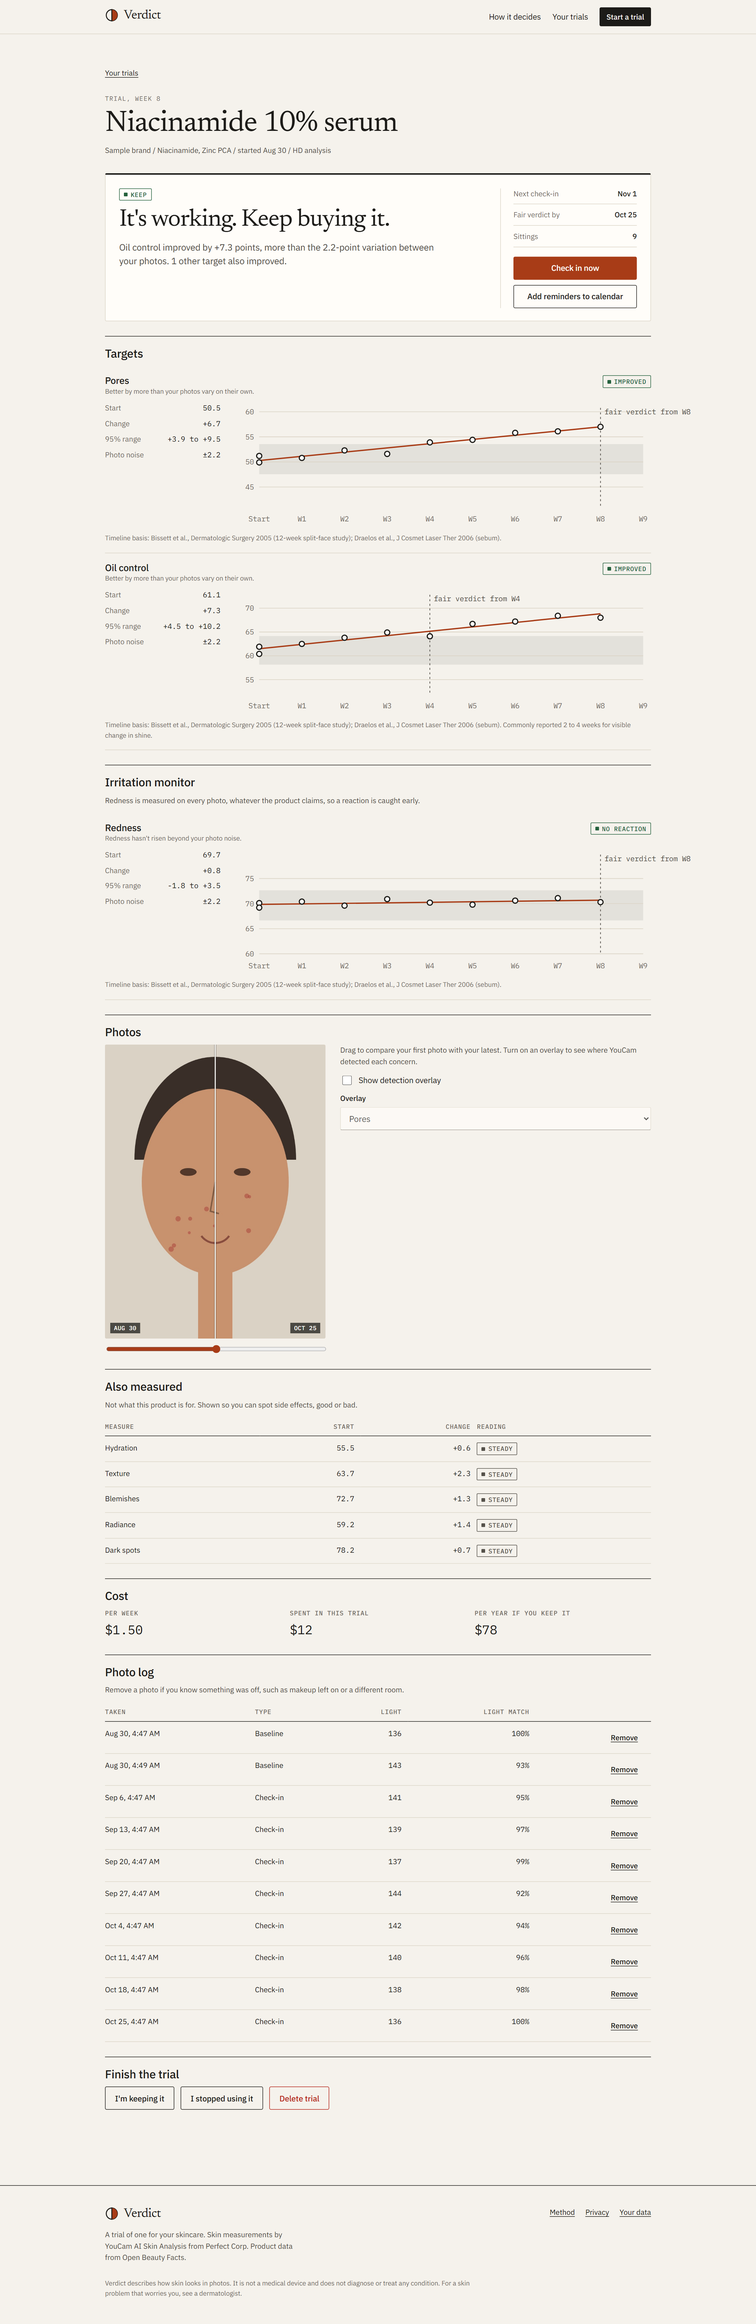
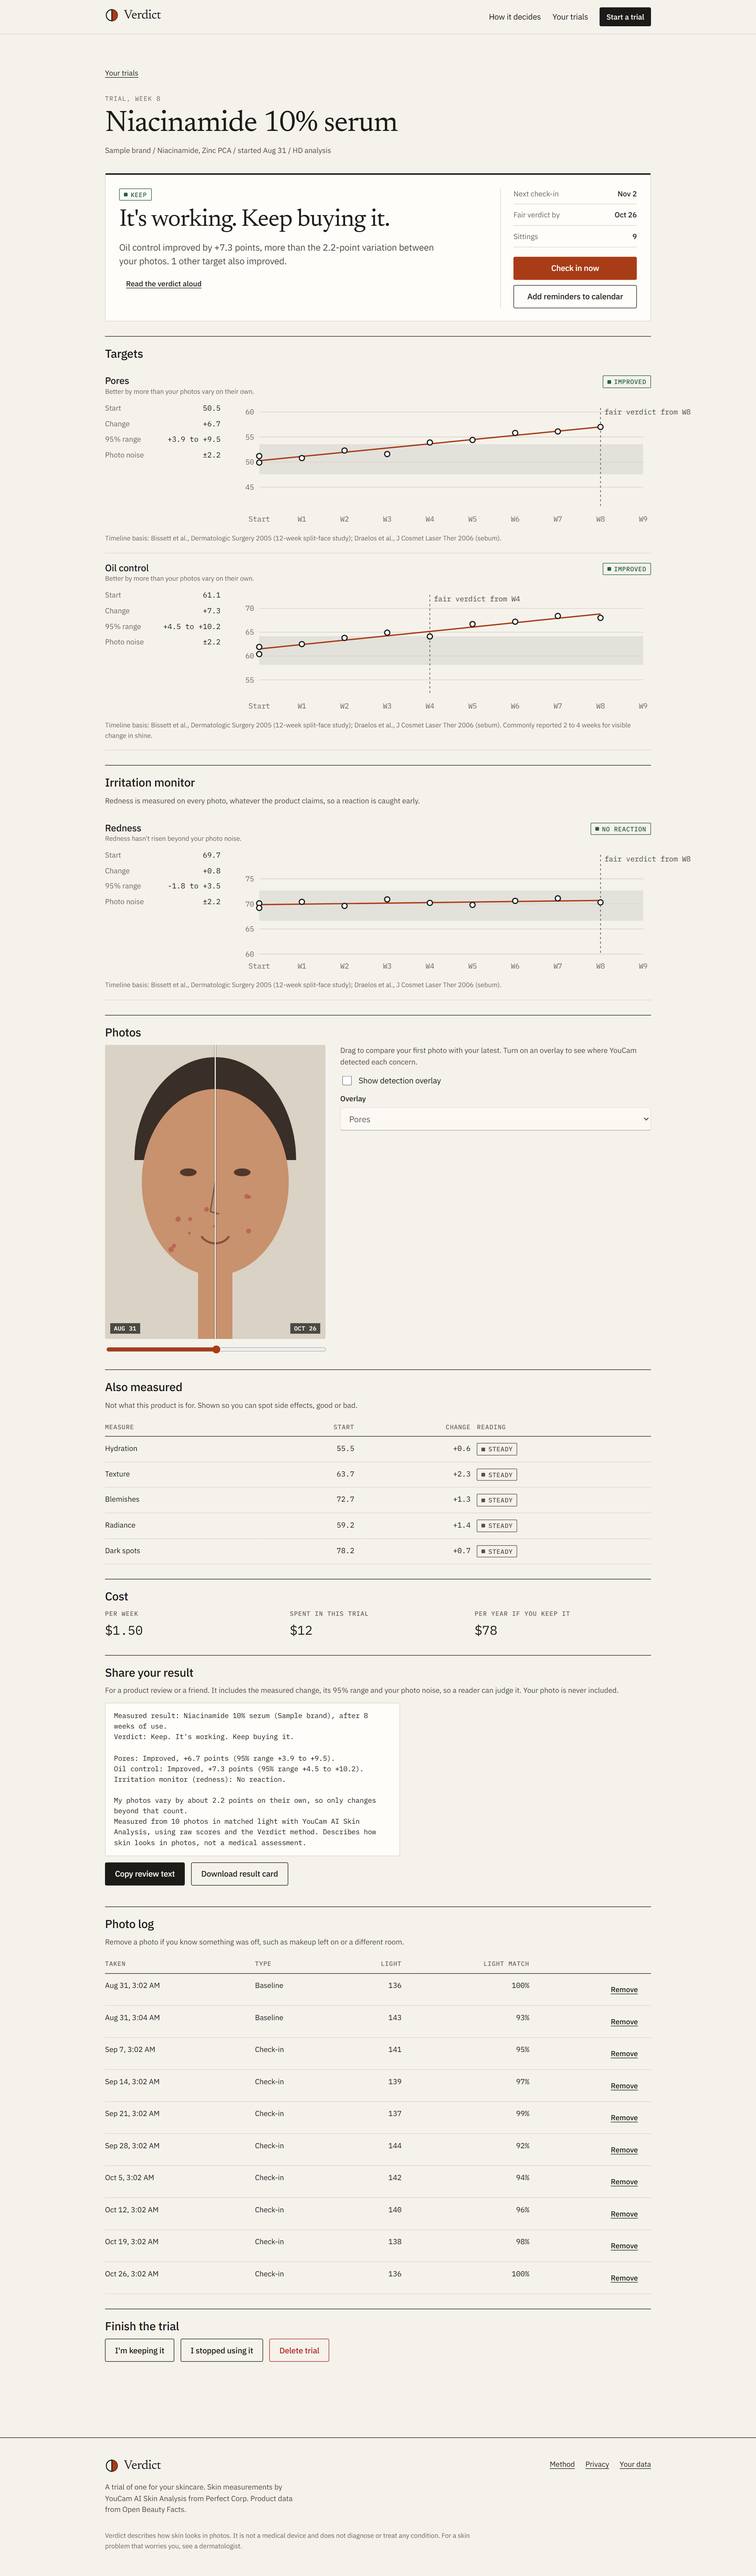
Update README, testing guide and screenshots for the new features

diff --git a/README.md b/README.md
@@ -11,8 +11,8 @@ It ends with a decision you can act on at the till: keep buying it, stop, or wai
 
 [![CI](https://github.com/opeblow/verdict/actions/workflows/ci.yml/badge.svg)](https://github.com/opeblow/verdict/actions/workflows/ci.yml)
 [![CodeQL](https://github.com/opeblow/verdict/actions/workflows/codeql.yml/badge.svg)](https://github.com/opeblow/verdict/actions/workflows/codeql.yml)
-[![Unit tests](https://img.shields.io/badge/unit%20tests-108-24613d.svg)](docs/TESTING.md#unit-tests-vitest)
-[![Browser tests](https://img.shields.io/badge/browser%20tests-25-24613d.svg)](docs/TESTING.md#browser-tests-playwright)
+[![Unit tests](https://img.shields.io/badge/unit%20tests-175-24613d.svg)](docs/TESTING.md#unit-tests-vitest)
+[![Browser tests](https://img.shields.io/badge/browser%20tests-42-24613d.svg)](docs/TESTING.md#browser-tests-playwright)
 [![WCAG 2.2 AA](https://img.shields.io/badge/axe-WCAG%202.2%20AA-24613d.svg)](tests/e2e/a11y.spec.ts)
 [![TypeScript strict](https://img.shields.io/badge/TypeScript-strict-1c1b18.svg?logo=typescript&logoColor=white)](tsconfig.json)
 [![License: MIT](https://img.shields.io/badge/license-MIT-1c1b18.svg)](LICENSE)
@@ -54,7 +54,7 @@ It ends with a decision you can act on at the till: keep buying it, stop, or wai
 | **How YouCam is used** | As a measuring instrument across weeks: the full upload, analyse, poll, mask and delete cycle, HD and SD, up to 8 concerns per call |
 | **What makes it trustworthy** | `raw_score` only, a measured personal noise floor, 95% ranges, matched light, and "too early" as a real answer |
 | **Privacy** | No accounts and no server database. Photos and scores live on your device. Photos are deleted from YouCam once results are saved. |
-| **Engineering** | Next.js 16, React 19, strict TypeScript, 108 unit tests, 25 browser tests, axe accessibility checks, eight decision records, CI, CodeQL, strict CSP |
+| **Engineering** | Next.js 16, React 19, strict TypeScript, 175 unit tests, 42 browser tests, axe accessibility checks, eleven decision records, CI, CodeQL, strict CSP |
 | **Track** | Skin AI |
 
 ## For judges
@@ -71,8 +71,9 @@ The four criteria are weighted equally. Every claim below links to the code, tes
 | `raw_score` for every calculation, because YouCam documents `ui_score` as adjusted upwards | [ADR 0002](docs/adr/0002-raw-score-not-ui-score.md) |
 | The live engine error format, `"('message', 'error_code')"`, parsed into plain instructions such as "Move closer" | [`errors.ts`](src/lib/youcam/errors.ts) |
 | Photos deleted from YouCam only after results are safely on the device, with a free retry if saving fails | [ADR 0006](docs/adr/0006-delete-from-youcam-after-local-save.md) |
+| An MCP endpoint lets AI assistants plan and judge trials with the same engine, without spending units or seeing photos | [MCP.md](docs/MCP.md), [ADR 0011](docs/adr/0011-mcp-tools-for-assistants.md) |
 | A dependency-free statistics engine: noise with a cautious prior, least-squares trend, pooled 95% interval | [`stats.ts`](src/lib/domain/stats.ts), [ADR 0004](docs/adr/0004-change-must-clear-measured-noise.md) |
-| 108 unit tests and 25 browser tests in CI, with YouCam mocked so no units are spent | [TESTING.md](docs/TESTING.md), [`ci.yml`](.github/workflows/ci.yml) |
+| 175 unit tests and 42 browser tests in CI, with YouCam mocked so no units are spent | [TESTING.md](docs/TESTING.md), [`ci.yml`](.github/workflows/ci.yml) |
 
 ### 2. Design
 
@@ -82,6 +83,7 @@ The four criteria are weighted equally. Every claim below links to the code, tes
 | Guided capture: your first photo is overlaid on the camera, with a live readout of brightness, side light, colour temperature, glare and blur | [`CaptureFlow.tsx`](src/components/capture/CaptureFlow.tsx), [`quality.ts`](src/lib/capture/quality.ts) |
 | Product search, barcode scanning and manual entry, with ingredients read automatically | [`ProductPicker.tsx`](src/components/product/ProductPicker.tsx) |
 | Cost per week and per year next to the verdict, so the answer is about money as well as skin | [`TrialDashboard.tsx`](src/app/trials/[id]/TrialDashboard.tsx) |
+| Spoken guidance reads the light checks, countdown and results aloud, and the verdict can be read aloud, using on-device speech only | [ADR 0010](docs/adr/0010-spoken-guidance-on-device.md), [`spoken-guidance.spec.ts`](tests/e2e/spoken-guidance.spec.ts) |
 | A distinctive editorial design system with light and dark themes, phone first, checked against WCAG 2.2 AA in both themes | [`globals.css`](src/app/globals.css), [`a11y.spec.ts`](tests/e2e/a11y.spec.ts) |
 
 ### 3. Potential impact
@@ -91,6 +93,7 @@ The four criteria are weighted equally. Every claim below links to the code, tes
 | Meets a decision every skincare buyer makes, repeatedly: buy it again or not | [The problem](#the-problem) |
 | Stops people abandoning good products too early, by giving each active a fair-verdict week (niacinamide on pores: about eight weeks) | [`ingredients.ts`](src/lib/domain/ingredients.ts), 18 actives |
 | Catches irritation early: redness is measured on every photo, whatever the product claims, and a rise stops the trial | [`concerns.ts`](src/lib/domain/concerns.ts), [`verdict.test.ts`](tests/unit/verdict.test.ts) |
+| A shareable measured result: review text and a card with the change, its 95% range and photo noise, never the photo, for store reviews | [`share.ts`](src/components/verdict/share.ts), [`share.spec.ts`](tests/e2e/share.spec.ts) |
 | Value for shoppers (money not wasted) and for retailers (fewer returns, confident repeat purchases of products that work) | [Roadmap](#roadmap) |
 | Ready to run: one-click deploy, guarded API units, no database to operate | [SETUP.md](docs/SETUP.md#6-deploy) |
 
@@ -101,6 +104,7 @@ The four criteria are weighted equally. Every claim below links to the code, tes
 | Uses YouCam as a measuring instrument across time. One score is a curiosity; a series with known noise is evidence. | [METHOD.md](docs/METHOD.md) |
 | Two baseline photos a minute apart measure each person's own noise floor, and every claim of change must clear it | [ADR 0004](docs/adr/0004-change-must-clear-measured-noise.md) |
 | Tells a purge from a reaction: blemishes rising early on a retinoid or acid are likely purging; rising redness means stop | [`verdict.ts`](src/lib/domain/verdict.ts) |
+| Fair to every skin tone: the light checks judge the room, not the skin. The first version blocked the two darkest Monk Skin Tones in perfect light; now all ten get the same answer, tested in unit and browser tests | [ADR 0009](docs/adr/0009-light-checks-judge-the-room-not-the-skin.md), [`fairness.test.ts`](tests/unit/fairness.test.ts) |
 | Compares each person only with themselves, in their own light, instead of with population norms that may fit some skin tones poorly | [Limits](#limits) |
 
 ### Test it in five minutes
@@ -120,9 +124,9 @@ A real trial takes weeks, so the landing page shows the real engine's output on 
 ```bash
 git clone https://github.com/opeblow/verdict.git && cd verdict
 npm install
-npm test                                    # 108 unit tests, including every verdict rule
+npm test                                    # 175 unit tests, including every verdict rule
 npm run build && npx playwright install chromium
-npm run test:e2e                            # 25 browser tests, YouCam mocked
+npm run test:e2e                            # 42 browser tests, YouCam mocked
 ```
 
 ## The problem
@@ -222,9 +226,11 @@ Full write-up: [docs/METHOD.md](docs/METHOD.md).
 | Area | What is in place |
 |---|---|
 | **Architecture** | One Next.js app. Personal data in the browser's IndexedDB; a stateless server holds the key. Pure domain layer with no I/O. [ARCHITECTURE.md](docs/ARCHITECTURE.md) |
-| **Decisions** | Eight architecture decision records, each naming the code and tests that enforce it. [docs/adr](docs/adr/README.md) |
-| **Tests** | 108 unit tests (Vitest) and 25 browser tests (Playwright) on desktop and phone, including a full trial, a failed-save retry and API guards. [TESTING.md](docs/TESTING.md) |
-| **Accessibility** | axe finds no WCAG 2.2 A or AA violations on six pages in light and dark themes; the wizard works by keyboard alone; charts have text summaries; status changes are announced |
+| **Decisions** | Eleven architecture decision records, each naming the code and tests that enforce it. [docs/adr](docs/adr/README.md) |
+| **Tests** | 175 unit tests (Vitest) and 42 browser tests (Playwright) on desktop and phone, including a full trial, a failed-save retry, all ten Monk Skin Tones, spoken guidance, sharing, MCP and API guards. [TESTING.md](docs/TESTING.md) |
+| **Accessibility** | axe finds no WCAG 2.2 A or AA violations on every page, the photo step and the dashboard, in light and dark themes; spoken guidance; the wizard works by keyboard alone; charts have text summaries |
+| **Inclusion** | Light checks give every Monk Skin Tone the same answer in the same light ([ADR 0009](docs/adr/0009-light-checks-judge-the-room-not-the-skin.md)) |
+| **AI assistants** | A stateless MCP endpoint exposes the engine as four read-only tools ([MCP.md](docs/MCP.md)) |
 | **Security** | Strict Content Security Policy, SSRF allow-list on the mask proxy, Zod validation, constant-time access code, rate limits, CodeQL. [SECURITY.md](SECURITY.md) |
 | **Privacy** | No accounts, no server database, no request logging; export, import and erase. [PRIVACY.md](docs/PRIVACY.md) |
 | **Honest copy** | A test fails the build on medical claims or emoji in user-facing text. [`copy-guard.test.ts`](tests/unit/copy-guard.test.ts) |
@@ -276,6 +282,7 @@ npm run dev                     # http://localhost:3000
 | [docs/ARCHITECTURE.md](docs/ARCHITECTURE.md) | System, layers, data model, repository layout |
 | [docs/adr/](docs/adr/README.md) | Architecture decision records |
 | [docs/API.md](docs/API.md) | HTTP routes and error codes |
+| [docs/MCP.md](docs/MCP.md) | Connecting an AI assistant to the engine |
 | [docs/TESTING.md](docs/TESTING.md) | Test suites and how to extend them |
 | [docs/SETUP.md](docs/SETUP.md) | Install, configure, deploy, troubleshoot |
 | [docs/PRIVACY.md](docs/PRIVACY.md) | Where data goes |
@@ -291,7 +298,6 @@ Verdict measures how skin looks in photos. It is not a medical device and does n
 
 - **Split-face trials:** product on one side only, compared using the detection masks.
 - **YouCam Skin Tone Analysis** as an independent light-matching check.
-- **An MCP tool interface** so an assistant can run check-ins in conversation.
 - **For retailers:** opt-in, anonymised "how often does this product earn a Keep" on product pages.
 
 ## Credits and licence

diff --git a/docs/TESTING.md b/docs/TESTING.md
@@ -3,9 +3,9 @@
 Two suites, both run in CI on every push and pull request. Neither calls the live YouCam API or needs a key ([ADR 0008](adr/0008-browser-tests-mock-youcam.md)).
 
 ```bash
-npm run check      # lint + strict typecheck + 108 unit tests
+npm run check      # lint + strict typecheck + 175 unit tests
 npm run build      # production build
-npm run test:e2e   # 25 browser tests against the production build
+npm run test:e2e   # 42 browser tests against the production build
 ```
 
 The first browser run needs `npx playwright install chromium`.
@@ -22,6 +22,10 @@ In [`tests/unit`](../tests/unit). They import the code directly and run in under
 | [`server.test.ts`](../tests/unit/server.test.ts) | SSRF allow-list, constant-time access code check, rate limits, environment parsing, product data mapping |
 | [`domain.test.ts`](../tests/unit/domain.test.ts) | Concern planning by billing tier, ingredient detection, light measurement, calendar export |
 | [`db.test.ts`](../tests/unit/db.test.ts) | Local storage recovers after a failed open instead of failing until reload |
+| [`fairness.test.ts`](../tests/unit/fairness.test.ts) | All ten Monk Skin Tones get the same light decision at six light levels, and the same blur decision for the same skin detail |
+| [`spoken.test.ts`](../tests/unit/spoken.test.ts) | The spoken verdict: content, order and wording a voice reads naturally |
+| [`share.test.ts`](../tests/unit/share.test.ts) | Shareable review text: change, 95% range, photo noise, cosmetic wording |
+| [`mcp.test.ts`](../tests/unit/mcp.test.ts) | MCP protocol behaviour, tool schemas, and the same verdict as the app for the same scores |
 | [`copy-guard.test.ts`](../tests/unit/copy-guard.test.ts) | Fails the build on medical claims or emoji in user-facing text |
 
 YouCam responses in [`tests/fixtures/youcam.ts`](../tests/fixtures/youcam.ts) follow the official OpenAPI shapes and the live error format.
@@ -36,7 +40,11 @@ In [`tests/e2e`](../tests/e2e). They start the production build with a placehold
 | [`save-retry.spec.ts`](../tests/e2e/save-retry.spec.ts) | A failed local save shows a clear message and is retried without a second analysis |
 | [`capture-quality.spec.ts`](../tests/e2e/capture-quality.spec.ts) | A photo that is too dark is blocked before any upload, on desktop and phone |
 | [`api-guards.spec.ts`](../tests/e2e/api-guards.spec.ts) | The real route handlers reject bad types, undersized HD photos, unknown concerns, non-YouCam mask URLs and malformed task ids, and health reveals no secret |
-| [`a11y.spec.ts`](../tests/e2e/a11y.spec.ts) | No WCAG 2.2 A or AA violations (axe) on six pages in light and dark themes, and the new-trial wizard can be completed by keyboard alone |
+| [`skin-tone-fairness.spec.ts`](../tests/e2e/skin-tone-fairness.spec.ts) | All ten Monk Skin Tones through the real capture pipeline: accepted in good light, blocked in a dark room |
+| [`spoken-guidance.spec.ts`](../tests/e2e/spoken-guidance.spec.ts) | What is said during a capture and on the dashboard, silence until turned on, the setting remembered |
+| [`share.spec.ts`](../tests/e2e/share.spec.ts) | Review text copied, result card downloaded as a 1080 x 1350 PNG, axe on the section |
+| [`mcp.spec.ts`](../tests/e2e/mcp.spec.ts) | MCP handshake and a tool call over HTTP; cross-origin and malformed requests refused |
+| [`a11y.spec.ts`](../tests/e2e/a11y.spec.ts) | No WCAG 2.2 A or AA violations (axe) on six pages, the photo step and a dashboard with data, in light and dark themes, and the new-trial wizard can be completed by keyboard alone |
 
 Shared helpers live in [`tests/e2e/support`](../tests/e2e/support): the YouCam mock, the synthetic face generator, and the wizard steps.
 

diff --git a/docs/README.md b/docs/README.md
@@ -9,7 +9,7 @@ Everything about Verdict beyond the [project README](../README.md).
 | [METHOD.md](METHOD.md) | How scores become a keep, stop or wait decision: noise floor, trends, intervals, ingredient timelines |
 | [YOUCAM.md](YOUCAM.md) | How YouCam AI Skin Analysis is used: call sequence, concerns, unit budget, honest-measurement decisions |
 | [ARCHITECTURE.md](ARCHITECTURE.md) | System diagram, layers, data model and repository layout |
-| [adr/](adr/README.md) | Eight architecture decision records: what was decided, why, and what enforces it |
+| [adr/](adr/README.md) | Eleven architecture decision records: what was decided, why, and what enforces it |
 
 ## Run it
 
